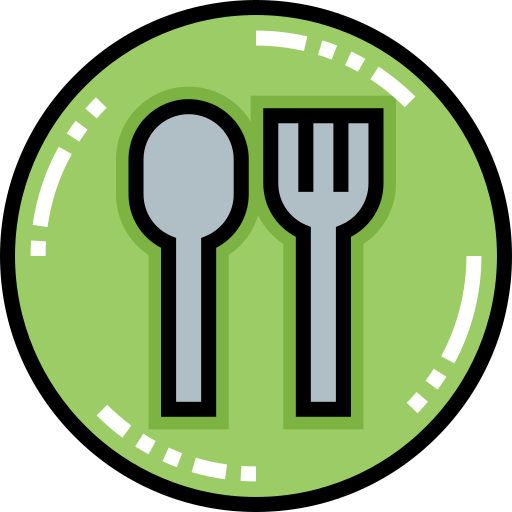
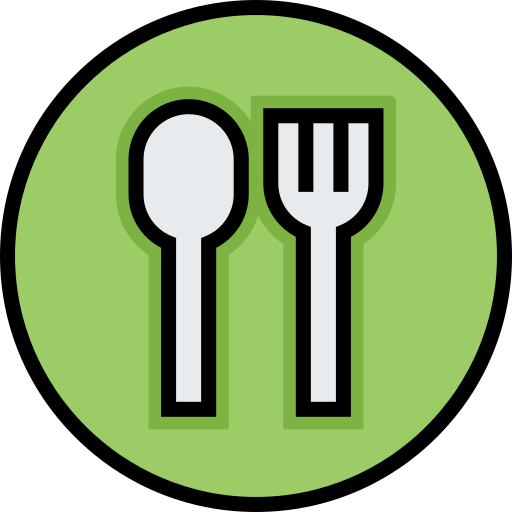
🔨 fix: Fix marker overlay logic
JIRA ISSUE: S05P31A202-159

diff --git a/breeze/frontend/src/components/findplace/PlaceMap.vue b/breeze/frontend/src/components/findplace/PlaceMap.vue
@@ -11,6 +11,7 @@ export default {
   name: "PlaceMap",
   data() {
     return {
+      placeOverlays : [],
       placeList: [
         {
           name: "마포소금구이",
@@ -20,7 +21,7 @@ export default {
           latitude: 37.54937608742442,
           phone: "02-324-2198",
           longitude: 126.91234702787905,
-          kakao_url: "https://place.map.kakao.com/17600274",
+          kakao_url: "https://naver.cafe.com",
         },
         {
           name: "교다이야",
@@ -32,36 +33,36 @@ export default {
           longitude: 126.91301221571476,
           kakao_url: "https://place.map.kakao.com/17600274",
         },
-        // {
-        //   name: "우동 카덴",
-        //   score: 3.9,
-        //   review: 984,
-        //   address: "서울특별시 마포구 서교동 양화로7안길 2-1",
-        //   phone: "02-366-4248",
-        //   latitude: 37.55192788156713,
-        //   longitude: 126.91487903318917,
-        //   kakao_url: "https://place.map.kakao.com/17600274",
-        // },
-        // {
-        //   name: "오스테리아샘킴",
-        //   score: 4.1,
-        //   review: 353,
-        //   address: "서울특별시 마포구 합정동 양화로3길 55",
-        //   phone: "02-321-1198",
-        //   latitude: 37.55160471820185,
-        //   longitude: 126.91089245335263,
-        //   kakao_url: "https://place.map.kakao.com/17600274",
-        // },
-        // {
-        //   name: "동무밥상",
-        //   score: 3.9,
-        //   review: 384,
-        //   address: "서울특별시 마포구 합정동 양화진길 10",
-        //   phone: "02-754-5598",
-        //   latitude: 37.54856605316061,
-        //   longitude: 126.91246430159401,
-        //   kakao_url: "https://place.map.kakao.com/17600274",
-        // },
+        {
+          name: "우동 카덴",
+          score: 3.9,
+          review: 984,
+          address: "서울특별시 마포구 서교동 양화로7안길 2-1",
+          phone: "02-366-4248",
+          latitude: 37.55192788156713,
+          longitude: 126.91487903318917,
+          kakao_url: "https://place.map.kakao.com/17600274",
+        },
+        {
+          name: "오스테리아샘킴",
+          score: 1.2,
+          review: 353,
+          address: "서울특별시 마포구 합정동 양화로3길 55",
+          phone: "02-321-1198",
+          latitude: 37.55160471820185,
+          longitude: 126.91089245335263,
+          kakao_url: "https://place.map.kakao.com/17600274",
+        },
+        {
+          name: "동무밥상",
+          score: 3.9,
+          review: 384,
+          address: "서울특별시 마포구 합정동 양화진길 10",
+          phone: "02-754-5598",
+          latitude: 37.54856605316061,
+          longitude: 126.91246430159401,
+          kakao_url: "https://naver.com",
+        },
       ],
     };
   },
@@ -75,8 +76,12 @@ export default {
         level: 5,
       };
       var map = new kakao.maps.Map(container, options);
+      
       this.addMiddleMarker(map);
-      this.addPlaceMarker(map);
+      for(let i = 0; i < this.placeList.length; i++){
+          var place = this.placeList[i];
+          this.addPlaceMarker(map, place);
+      }
     },
     // 중간 지점 마커 표시
     addMiddleMarker(map) {
@@ -94,48 +99,99 @@ export default {
       middleMarker.setMap(map);
     },
     // 장소 마커 표시
-    addPlaceMarker(map) {
-      for (var i = 0; i < this.placeList.length; i++) {
-        var placeMarkerSrc = require("@/assets/map/" + this.mode2 + ".png");
-        var placeMarkerSize = new kakao.maps.Size(30, 30);
-        var placeMarkerImage = new kakao.maps.MarkerImage(placeMarkerSrc, placeMarkerSize);
-        var placeMarkerPosition = new kakao.maps.LatLng(this.placeList[i].latitude, this.placeList[i].longitude);
+    addPlaceMarker(map, place) {
+      var placeMarkerSrc = require("@/assets/map/" + this.mode2 + ".png");
+      var placeMarkerSize = new kakao.maps.Size(30, 30);
+      var placeMarkerImage = new kakao.maps.MarkerImage(placeMarkerSrc, placeMarkerSize);
+      var placeMarkerPosition = new kakao.maps.LatLng(place.latitude, place.longitude);
 
-        var placeMarker = new kakao.maps.Marker({
-          map: map,
-          image: placeMarkerImage,
-          position: placeMarkerPosition,
-        });
+      var placeMarker = new kakao.maps.Marker({
+        map: map,
+        image: placeMarkerImage,
+        position: placeMarkerPosition,
+      });
 
-        placeMarker.setMap(map);
+      var placeOverlay = new kakao.maps.CustomOverlay({
+        map: map,
+        position: placeMarker.getPosition(),
+      });
 
-        const score = this.placeList[i].score * 20 + 1.5;
-        
-        var content = `<div class="place-wrap">`;
-        content +=  `<div class="place-head">`;
-        content +=    `<div>${this.placeList[i].name}</div>`;
-        content +=    `<img src="${require('@/assets/map/add.png')}" alt="">`;
-        content +=  `</div>`;
-        content +=  `<div class="place-body">`
-        content +=    `<div class="star-ratings">`
-        content +=      `<div class="star-ratings-fill" style="width: ${score}%"><span>★</span><span>★</span><span>★</span><span>★</span><span>★</span></div>`;
-        content +=      `<div class="star-ratings-base"><span>★</span><span>★</span><span>★</span><span>★</span><span>★</span></div>`;
-        content +=    `</div>`;
-        content +=    `<div class="star-ratings-text">(${this.placeList[i].score}) | 리뷰 ${this.placeList[i].review}개<div>`;
-        content +=    `<div>${this.placeList[i].address}</div>`;
-        content +=    `<div class="place-desc">${this.placeList[i].phone}</div>`;
-        content +=    `<a class="place-desc" href="${this.placeList[i].kakao_url}">상세보기</a>`;
-        content +=  `</div>`;
-        content += `</div>`;
+      // HTMLElement 생성
+      var placeContent = document.createElement('div');
+      placeContent.className = "place-content"
+      
+      var placeHead = document.createElement('div');
+      placeHead.className = "place-head"
 
-        var placeOverlay = new kakao.maps.CustomOverlay({
-          map: map,
-          position: placeMarker.getPosition(),
-          content,
-        });
-        console.log(placeOverlay)
-      }  
-    }
+      var placeBody = document.createElement('div');
+      placeBody.className = "place-body"
+
+      var placeName = document.createElement('div')
+      placeName.innerHTML = place.name;
+
+
+      var placeImg = document.createElement('img')
+      placeImg.setAttribute('src', require('@/assets/map/add2.png'));
+      placeImg.onclick = function () {
+        placeOverlay.setMap(null);
+      };
+
+      var starRatings = document.createElement('div');
+      starRatings.className = "star-ratings"
+
+      var starRatingsText = document.createElement('div')
+      starRatingsText.className = "star-ratings-text"
+      starRatingsText.innerHTML = '(' + place.score + ')| 리뷰 ' + place.review + '개';
+
+      const score = place.score * 20 + 1.5;
+      var starRatingsFill = document.createElement('div')
+      starRatingsFill.className = "star-ratings-fill"
+      starRatingsFill.style.width = score + '%'
+      
+      var starRatingsBase = document.createElement('div')
+      starRatingsBase.className = "star-ratings-base"
+      
+      var star1 = document.createElement('span')
+      star1.innerHTML = '★★★★★'
+      var star2 = document.createElement('span')
+      star2.innerHTML = '★★★★★'
+
+      var placeAddress = document.createElement('div');
+      placeAddress.innerHTML = place.address;
+
+      var placePhone = document.createElement('div')
+      placePhone.className = "place-desc"
+      placePhone.innerHTML = place.phone;
+
+      var placeUrl = document.createElement('a')
+      placeUrl.innerHTML = '상세보기'
+      placeUrl.className = "place-desc"
+      placeUrl.href = place.kakao_url;
+
+      // HTMLElement 구성
+      placeContent.append(placeHead, placeBody);
+      placeHead.append(placeName, placeImg)
+      placeBody.append(starRatings, starRatingsText, placeAddress, placePhone, placeUrl)
+      starRatings.append(starRatingsFill, starRatingsBase)
+      starRatingsFill.append(star1)
+      starRatingsBase.append(star2)
+
+      // 마커 오버레이에 HTMLElement 추가
+      placeOverlay.setContent(placeContent);
+      this.placeOverlays.push(placeOverlay);  
+
+
+      // 마커 클릭 이벤트
+      kakao.maps.event.addListener(placeMarker, 'click', function() {
+        for(let i = 0; i < this.placeOverlays.length; i++){
+          if (this.placeOverlays) {
+            this.placeOverlays[i].setMap(null);
+          }
+          placeOverlay.setMap(map);
+          this.placeOverlays.push(placeOverlay)
+          }
+      });
+    },
   },
   mounted() {
     if (window.kakao && window.kakao.maps) {
@@ -148,6 +204,9 @@ export default {
       script.src = `http://dapi.kakao.com/v2/maps/sdk.js?autoload=false&appkey=${apiKey}`;
       document.head.appendChild(script);
     }
+  },
+  created() {
+
   },
   computed: {
     ...mapState({
@@ -171,17 +230,17 @@ export default {
   height: 100%;
   width: 100%;
 }
-.place-wrap {
+.place-content {
   position: absolute;
-  left: 20px;
-  bottom: 40px;
-  width: 180px;
+  left: 40px;
+  bottom: 35px;
+  width: 200px;
   height: 80px;
   margin-left: -140px;
   text-align: left;
   overflow: hidden;
   color: #3a3c3c;
-  background: rgba(184, 208, 250, 0.8);
+  background: rgba(184, 208, 250, 0.9);
   border-radius: 10px;
 }
 .place-head {
@@ -195,7 +254,7 @@ export default {
   padding: 5% 5% 0 5%;
 }
 .place-head img {
-  height: 70%;
+  height: 15px
 }
 .place-body {
   width: 100%;
@@ -227,7 +286,7 @@ export default {
   overflow: hidden;
   -webkit-text-fill-color: gold;
 }
-.star-ratings-base {
+.star-ratings-base { 
   z-index: 0;
   padding: 0;
   -webkit-text-fill-color: rgb(172, 172, 172);
